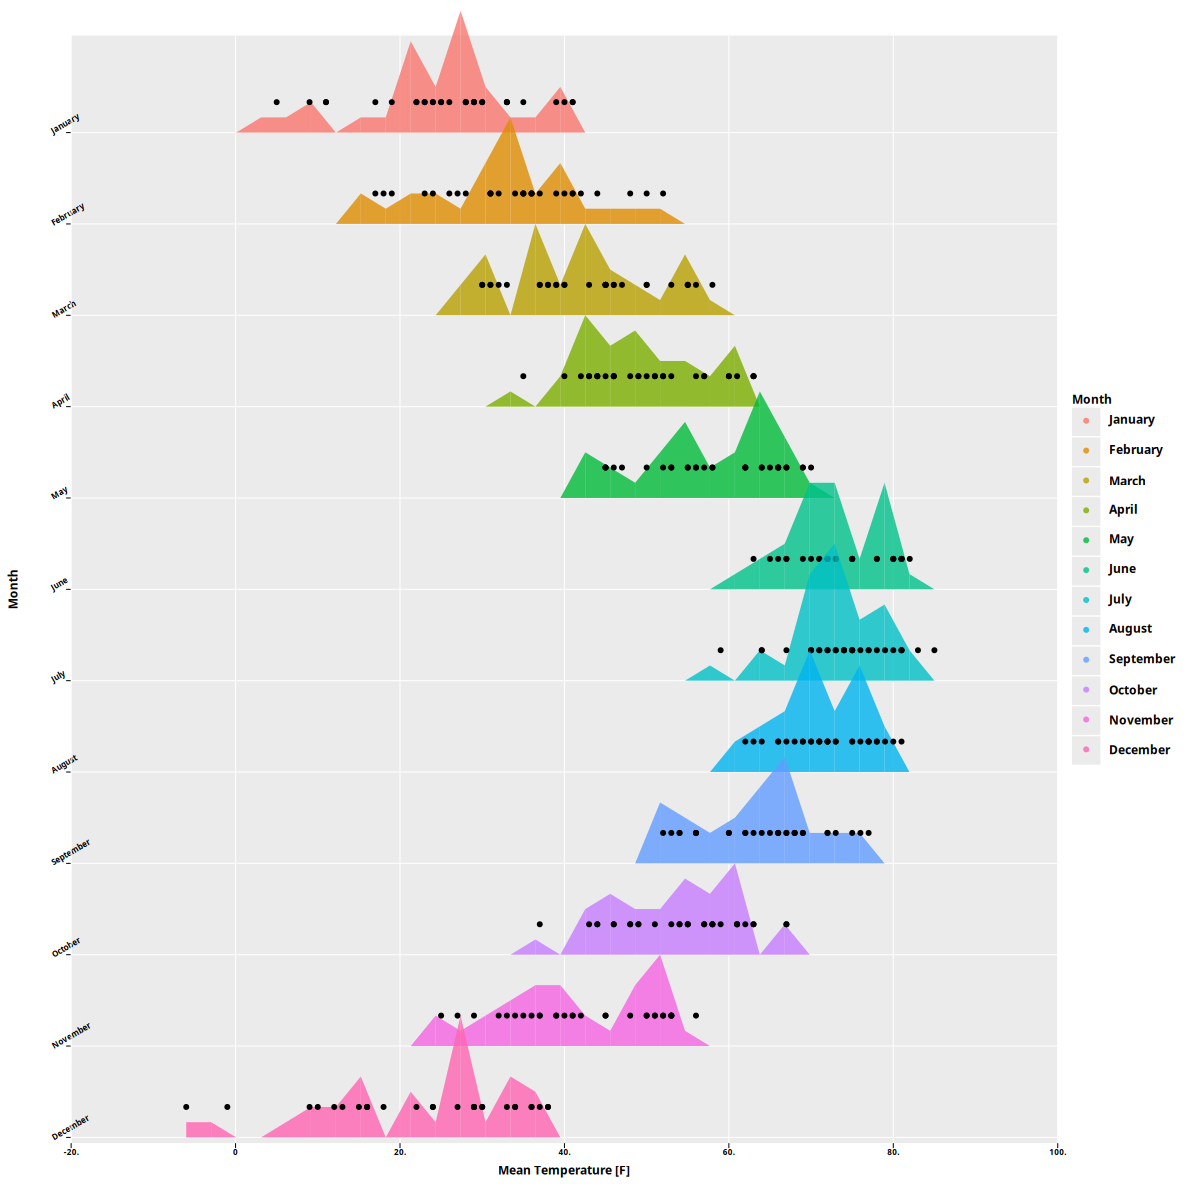
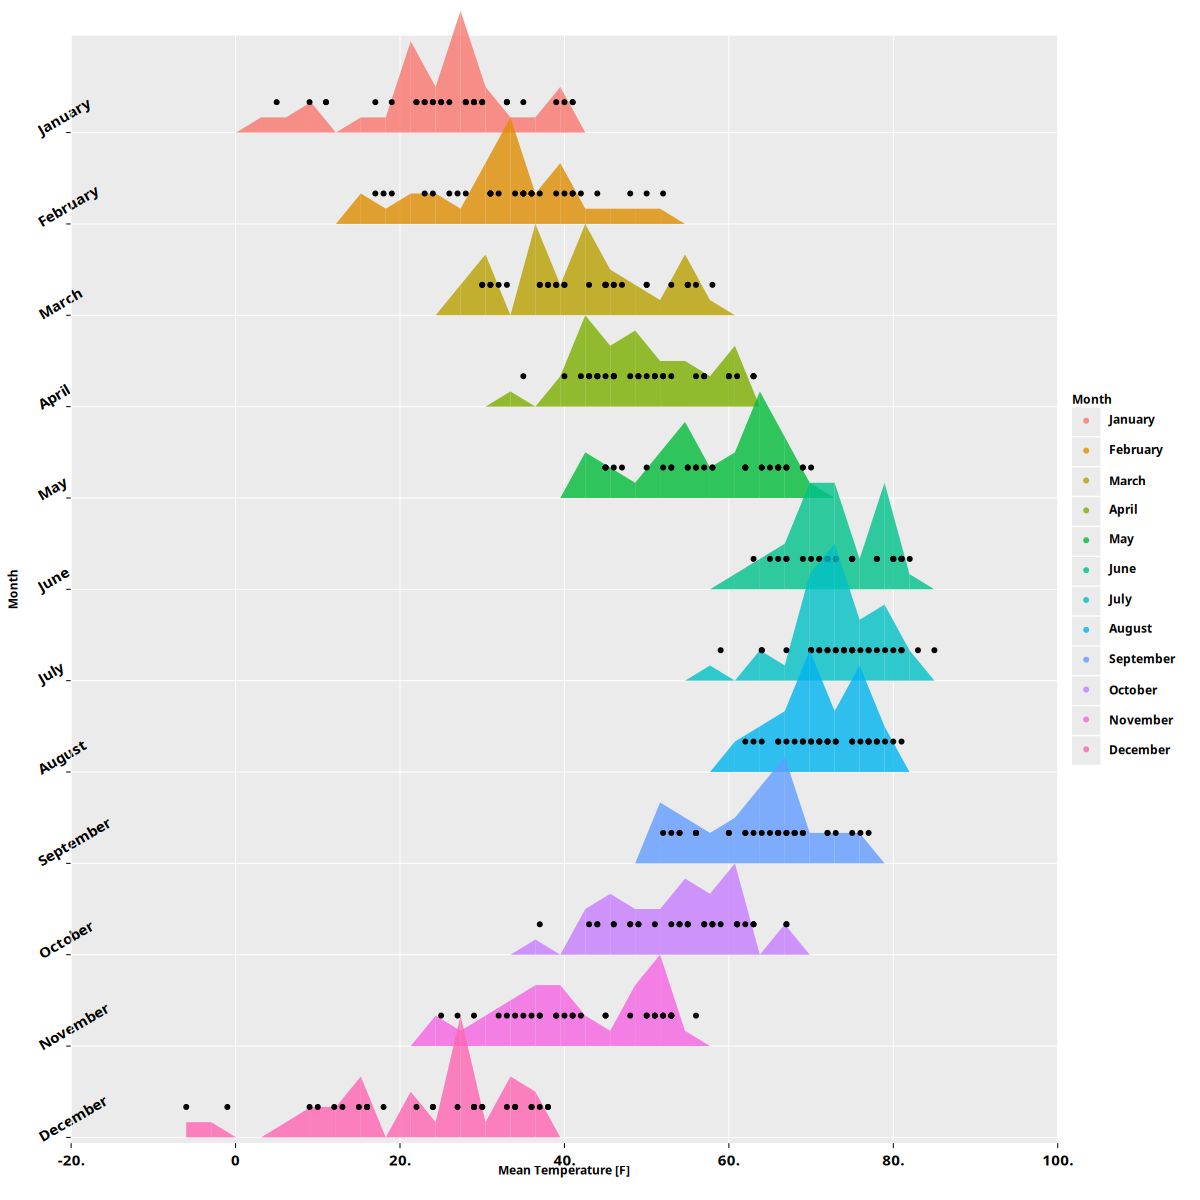
fix tick label size for ridges

diff --git a/tests/test_plots.py b/tests/test_plots.py
@@ -3,7 +3,7 @@ import pandas as pd
 import pytest
 
 from python_ggplot.colormaps.color_maps import VIRIDIS_RAW
-from python_ggplot.core.objects import Color
+from python_ggplot.core.objects import Color, Font
 from python_ggplot.gg.scales.base import ColorScale
 from python_ggplot.gg.types import gg_col
 from python_ggplot.public_interface.aes import aes
@@ -417,7 +417,7 @@ def test_ridges_weather():
         + ggridges("Month", overlap=1.5)
         + geom_area(stat="bin", alpha=0.8)
         + geom_point(aes(y=gg_col("Month").zero() + 2), color="black")
-        + ylab(rotate=-30)
+        + ylab(rotate=-30, tick_font=Font(size=15))
     )
 
     res = ggcreate(plot, width=1200, height=1200)
